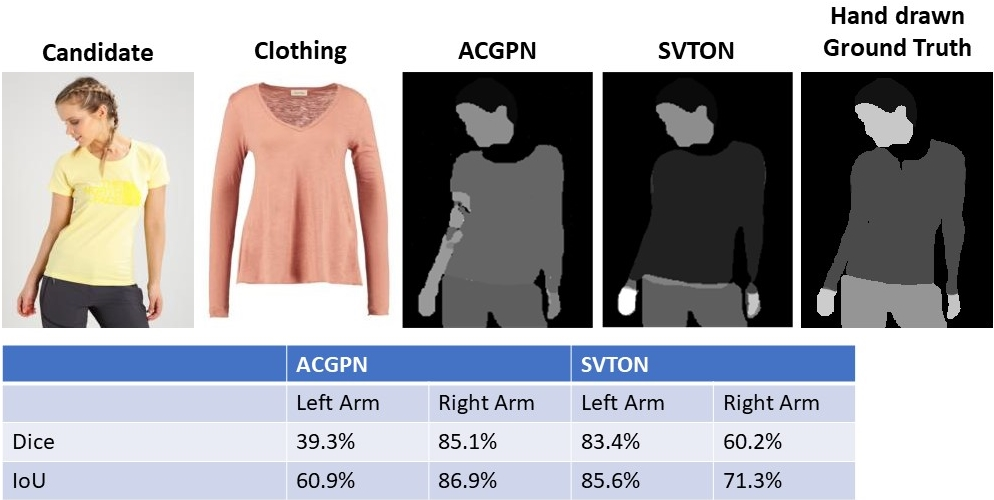
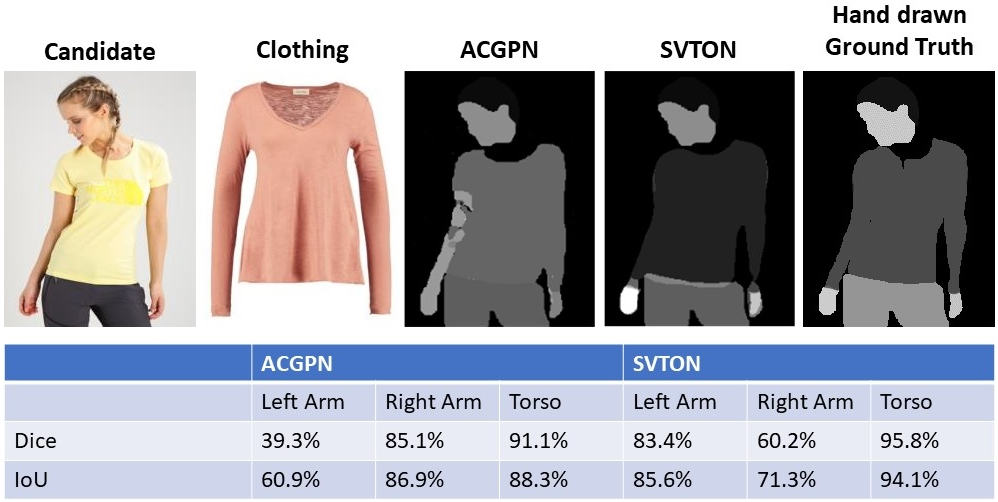
added torso evaluation

diff --git a/train_phpm.py b/train_phpm.py
@@ -5,34 +5,38 @@ import torch.nn as nn
 import cv2
 import torch.utils.data as data
 import torch.optim as optim
+import torchvision.utils
 from torch.autograd import Variable
 import torchgeometry as tgm
 from tensorboardX import SummaryWriter
 import torch.nn.functional as F
 from models import networks, dataset
+import tqdm
 writer = SummaryWriter('runs/phpm')
 
 
 
 class Args:
-    batchSize = 8
+    batchSize = 4
     #dataroot = '../acgpn_dataset/'
-    dataroot = '../../DeepFashion_Try_On/acgpn_dataset'
+    dataroot = 'data'
     datapairs = 'train_pairs.txt'
     phase = 'train'
     beta1 = 0.5
 
 class Args2:
-    batchSize = 8
+    batchSize = 2
     #dataroot = '../acgpn_dataset/'
-    dataroot = '../../DeepFashion_Try_On/acgpn_dataset'
+    dataroot = 'data'
     datapairs = 'val_pairs.txt'
     phase = 'val'
     
+device = torch.device('cpu') 
+
 opt_train = Args
 opt_val = Args2
 
-G1 = networks.PHPM(7, 4).cuda()
+G1 = networks.PHPM(7, 4).to(device)
 
 
 train_dataset = dataset.BaseDataset(opt_train)
@@ -48,11 +52,11 @@ val_dataloader = torch.utils.data.DataLoader(
 def extractChannel(label):
     up = nn.Upsample(size=(256, 192), mode='bilinear')
     gauss = tgm.image.GaussianBlur((15, 15), (3, 3))
-    gauss.cuda()
+    gauss.to(device)
 
     parse_pred = gauss(up(label))
     parse_pred = parse_pred.argmax(dim=1)[:, None]
-    parse_old = torch.zeros(parse_pred.size(0), 14, 256, 192, dtype=torch.float).cuda()
+    parse_old = torch.zeros(parse_pred.size(0), 14, 256, 192, dtype=torch.float).to(device)
     parse_old.scatter_(1, parse_pred, 1.0)
     labels = {
         0:  ['background',  [0]],
@@ -60,7 +64,7 @@ def extractChannel(label):
         2:  ['arm1',       [11]],
         3:  ['arm2',        [13]]
     }
-    parse = torch.zeros(parse_pred.size(0), 4, 256, 192, dtype=torch.float).cuda()
+    parse = torch.zeros(parse_pred.size(0), 4, 256, 192, dtype=torch.float).to(device)
     for j in range(len(labels)):
         for label in labels[j][1]:
             parse[:, j] += parse_old[:, label]
@@ -82,11 +86,11 @@ def generate_discrete_label(inputs, label_nc, onehot=True):
         label_map.append(p)
     label_map = torch.stack(label_map, 0)
     if not onehot:
-        return label_map.float().cuda()
+        return label_map.float().to(device)
     size = label_map.size()
     oneHot_size = (size[0], label_nc, size[2], size[3])
     input_label = torch.cuda.FloatTensor(torch.Size(oneHot_size)).zero_()
-    input_label = input_label.scatter_(1, label_map.data.long().cuda(), 1.0)
+    input_label = input_label.scatter_(1, label_map.data.long().to(device), 1.0)
     return input_label
 
 def gen_noise(shape):
@@ -94,7 +98,7 @@ def gen_noise(shape):
     noise = cv2.randn(noise, 0, 255)
     noise = np.asarray(noise / 255, dtype=np.uint8)
     noise = torch.tensor(noise, dtype=torch.float32)
-    return noise.cuda()
+    return noise.to(device)
 
 def cross_entropy2d(input, target, weight=None, size_average=True):
     n, c, h, w = input.size()
@@ -119,31 +123,31 @@ if not os.path.isdir('checkpoint_phpm'):
     os.mkdir('checkpoint_phpm')
 for epoch in range(20):
     G1.train()     
-    for data in train_dataloader: #training
+    for data in tqdm.tqdm(train_dataloader): #training
         t_mask=torch.FloatTensor((data['label'].cpu().numpy()==7).astype(np.float))
         data['label']=data['label']*(1-t_mask)+t_mask*4
         mask_clothes = torch.FloatTensor((data['label'].cpu().numpy() == 4).astype(np.int))
         mask_hair = torch.FloatTensor((data['label'].cpu().numpy() == 1).astype(np.int))
-        in_mask_hair_label = Variable(mask_hair.cuda())
+        in_mask_hair_label = Variable(mask_hair.to(device))
         mask_bottom = torch.FloatTensor((data['label'].cpu().numpy() == 8).astype(np.int))
-        in_mask_bottom_label = Variable(mask_bottom.cuda())
+        in_mask_bottom_label = Variable(mask_bottom.to(device))
         mask_head = torch.FloatTensor((data['label'].cpu().numpy() == 12).astype(np.int))
-        in_mask_head_label = Variable(mask_head.cuda())
+        in_mask_head_label = Variable(mask_head.to(device))
 
         mask_fore = torch.FloatTensor((data['label'].cpu().numpy() > 0).astype(np.int))
         img_fore = data['image'] * mask_fore
 
-        in_label = Variable(data['label'].cuda())
-        in_edge = Variable(data['edge'].cuda())
-        in_img_fore = Variable(img_fore.cuda())
-        in_mask_clothes = Variable(mask_clothes.cuda())
-        in_color = Variable(data['color'].cuda())
-        in_image = Variable(data['image'].cuda())
-        in_skeleton = Variable(data['skeleton'].cuda())
-        in_mask_fore = Variable(mask_fore.cuda()) 
-        in_blurry = Variable(data['blurry'].cuda())
+        in_label = Variable(data['label'].to(device))
+        in_edge = Variable(data['edge'].to(device))
+        in_img_fore = Variable(img_fore.to(device))
+        in_mask_clothes = Variable(mask_clothes.to(device))
+        in_color = Variable(data['color'].to(device))
+        in_image = Variable(data['image'].to(device))
+        in_skeleton = Variable(data['skeleton'].to(device))
+        in_mask_fore = Variable(mask_fore.to(device)) 
+        in_blurry = Variable(data['blurry'].to(device))
 
-        pre_clothes_mask = torch.FloatTensor((in_edge.detach().cpu().numpy() > 0.5).astype(np.float)).cuda()
+        pre_clothes_mask = torch.FloatTensor((in_edge.detach().cpu().numpy() > 0.5).astype(np.float)).to(device)
         shape = pre_clothes_mask.shape
         clothes = in_color*pre_clothes_mask
         #torse_label includes both arm and clothes
@@ -158,8 +162,8 @@ for epoch in range(20):
                           (1 - in_mask_head_label))
         # Despite removing some labels, cross-entropy will see this as having 14 channels
         oneHot_size = (size[0], 14, size[2], size[3])
-        input_label = torch.cuda.FloatTensor(torch.Size(oneHot_size)).zero_()
-        ground_truth_14 = input_label.scatter_(1, wanted_feature.data.long().cuda(), 1.0)
+        input_label = torch.FloatTensor(torch.Size(oneHot_size)).zero_()
+        ground_truth_14 = input_label.scatter_(1, wanted_feature.data.long().to(device), 1.0)
         ground_truth_4 = extractChannel(ground_truth_14)  # changes 14 channel to 4
         ground_truth = generate_discrete_label(ground_truth_4.detach(), 4, False)
 
@@ -171,8 +175,9 @@ for epoch in range(20):
         writer.add_scalar('loss_G', loss_G, step)
 
         if step % 300 == 0:
-            writer.add_image('torso_label', armlabel_map[0], step)
-            writer.add_image('gt', ground_truth[0], step)
+            writer.add_image('torso_label', torchvision.utils.make_grid(armlabel_map), step)
+            writer.add_image('gt', torchvision.utils.make_grid(ground_truth), step)
+
         if step % 5000 == 0:
             torch.save({
                 'sgm': G1.state_dict(),
@@ -183,46 +188,46 @@ for epoch in range(20):
         optimizerG.step()
         step += 1
     G1.eval()
-    for data in val_dataloader: #validation
+    '''for data in val_dataloader: #validation
         t_mask = torch.FloatTensor((data['label'].cpu().numpy() == 7).astype(np.float))
         data['label'] = data['label'] * (1 - t_mask) + t_mask * 4
         mask_clothes = torch.FloatTensor((data['label'].cpu().numpy() == 4).astype(np.int))
         mask_hair = torch.FloatTensor((data['label'].cpu().numpy() == 1).astype(np.int))
-        in_mask_hair_label = Variable(mask_hair.cuda())
+        in_mask_hair_label = Variable(mask_hair.to(device))
         mask_bottom = torch.FloatTensor((data['label'].cpu().numpy() == 8).astype(np.int))
-        in_mask_bottom_label = Variable(mask_bottom.cuda())
+        in_mask_bottom_label = Variable(mask_bottom.to(device))
         mask_head = torch.FloatTensor((data['label'].cpu().numpy() == 12).astype(np.int))
-        in_mask_head_label = Variable(mask_head.cuda())
+        in_mask_head_label = Variable(mask_head.to(device))
         mask_fore = torch.FloatTensor((data['label'].cpu().numpy() > 0).astype(np.int))
         img_fore = data['image'] * mask_fore
 
-        in_label = Variable(data['label'].cuda())
-        in_edge = Variable(data['edge'].cuda())
-        in_img_fore = Variable(img_fore.cuda())
-        in_mask_clothes = Variable(mask_clothes.cuda())
-        in_color = Variable(data['color'].cuda())
-        in_image = Variable(data['image'].cuda())
-        in_skeleton = Variable(data['skeleton'].cuda())
-        in_mask_fore = Variable(mask_fore.cuda())
-        in_blurry = Variable(data['blurry'].cuda())
+        in_label = Variable(data['label'].to(device))
+        in_edge = Variable(data['edge'].to(device))
+        in_img_fore = Variable(img_fore.to(device))
+        in_mask_clothes = Variable(mask_clothes.to(device))
+        in_color = Variable(data['color'].to(device))
+        in_image = Variable(data['image'].to(device))
+        in_skeleton = Variable(data['skeleton'].to(device))
+        in_mask_fore = Variable(mask_fore.to(device))
+        in_blurry = Variable(data['blurry'].to(device))
 
-        pre_clothes_mask = torch.FloatTensor((in_edge.detach().cpu().numpy() > 0.5).astype(np.float)).cuda()
+        pre_clothes_mask = torch.FloatTensor((in_edge.detach().cpu().numpy() > 0.5).astype(np.float)).to(device)
         clothes = in_color*pre_clothes_mask
         G1_in = torch.cat([in_blurry, clothes, in_skeleton], dim=1)
         arm_label = G1(G1_in)
         arm_label = sigmoid(arm_label)
 
         size = in_label.size()
-        wanted_feature = \
-        (in_label * (1 - in_mask_hair_label) * (1 - in_mask_bottom_label) * (1 - in_mask_head_label))
-        wanted_feature = wanted_feature.unsqueeze(1) # Despite removing some labels, cross-entropy will see this as having 14 channels
+        wanted_feature = (in_label * (1 - in_mask_hair_label) * (1 - in_mask_bottom_label) *
+                          (1 - in_mask_head_label))
+        # Despite removing some labels, cross-entropy will see this as having 14 channels
         oneHot_size = (size[0], 14, size[2], size[3])
         input_label = torch.cuda.FloatTensor(torch.Size(oneHot_size)).zero_()
-        ground_truth_14 = input_label.scatter_(1, wanted_feature.data.long().cuda(), 1.0)
+        ground_truth_14 = input_label.scatter_(1, wanted_feature.data.long().to(device), 1.0)
         ground_truth_4 = extractChannel(ground_truth_14)  # changes 14 channel to 4
         ground_truth = generate_discrete_label(ground_truth_4.detach(), 4, False)
         CE_loss = cross_entropy2d(arm_label, ground_truth) * 10
         loss_G = CE_loss
         writer.add_scalar('loss_g_val', loss_G, step_val)
-        step_val += 1
+        step_val += 1 '''
     torch.save(G1.state_dict(), "checkpoint_phpm/phpm_"+str(epoch)+".pth")

diff --git a/models/networks.py b/models/networks.py
@@ -87,7 +87,6 @@ class PHPM(nn.Module):
         conv9 = self.drop7(self.conv9(torch.cat([conv1, up9], 1)))
         return conv9
 
-
 class TOM(nn.Module):
     def __init__(self, input_nc, output_nc=3):
         super(TOM, self).__init__()
@@ -103,7 +102,6 @@ class TOM(nn.Module):
         self.pool3 = nn.MaxPool2d(kernel_size=(2, 2))
         self.conv4 = nn.Sequential(*[nn.Conv2d(256, 512, kernel_size=3, stride=1, padding=1), nl(512), nn.ReLU(),
                                      nn.Conv2d(512, 512, kernel_size=3, stride=1, padding=1), nl(512), nn.ReLU()])
-        self.drop4 = nn.Dropout(0.5)
         self.pool4 = nn.MaxPool2d(kernel_size=(2, 2))
         self.conv5 = nn.Sequential(*[nn.Conv2d(512, 1024, kernel_size=3, stride=1, padding=1), nl(1024), nn.ReLU(),
                                      nn.Conv2d(1024, 1024, kernel_size=3, stride=1, padding=1), nl(1024), nn.ReLU()])
@@ -140,12 +138,11 @@ class TOM(nn.Module):
         conv3 = self.conv3(pool2)
         pool3 = self.pool3(conv3)
         conv4 = self.conv4(pool3)
-        drop4 = self.drop4(conv4)
-        pool4 = self.pool4(drop4)
+        pool4 = self.pool4(conv4)
         conv5 = self.conv5(pool4)
         drop5 = self.drop5(conv5)
         up6 = self.up6(drop5)
-        conv6 = self.conv6(torch.cat([drop4, up6], 1))
+        conv6 = self.conv6(torch.cat([conv4, up6], 1))
         up7 = self.up7(conv6)
         conv7 = self.conv7(torch.cat([conv3, up7], 1))
         up8 = self.up8(conv7)
@@ -153,7 +150,6 @@ class TOM(nn.Module):
         up9 = self.up9(conv8)
         conv9 = self.conv9(torch.cat([conv1, up9], 1))
         return conv9
-
 
 class GMM(nn.Module):
     def __init__(self, input_nc, output_nc=3):

diff --git a/train_tom.py b/train_tom.py
@@ -160,9 +160,7 @@ for epoch in range(100):
         size = in_label.size()
 
         segment = (in_label * (1 - in_mask_hair_label) * (1 - in_mask_bottom_label) *
-                          (1 - in_mask_head_label)).transpose(0, 1)[0].long()
-        segment = segment.unsqueeze(
-            1)  # Despite removing some labels, cross-entropy will see this as having 14 channels
+                          (1 - in_mask_head_label)).transpose(0, 1).long()
         oneHot_size = (size[0], 14, size[2], size[3])
         input_label = torch.cuda.FloatTensor(torch.Size(oneHot_size)).zero_()
         segment_14 = input_label.scatter_(1, segment.data.long().cuda(), 1.0)
